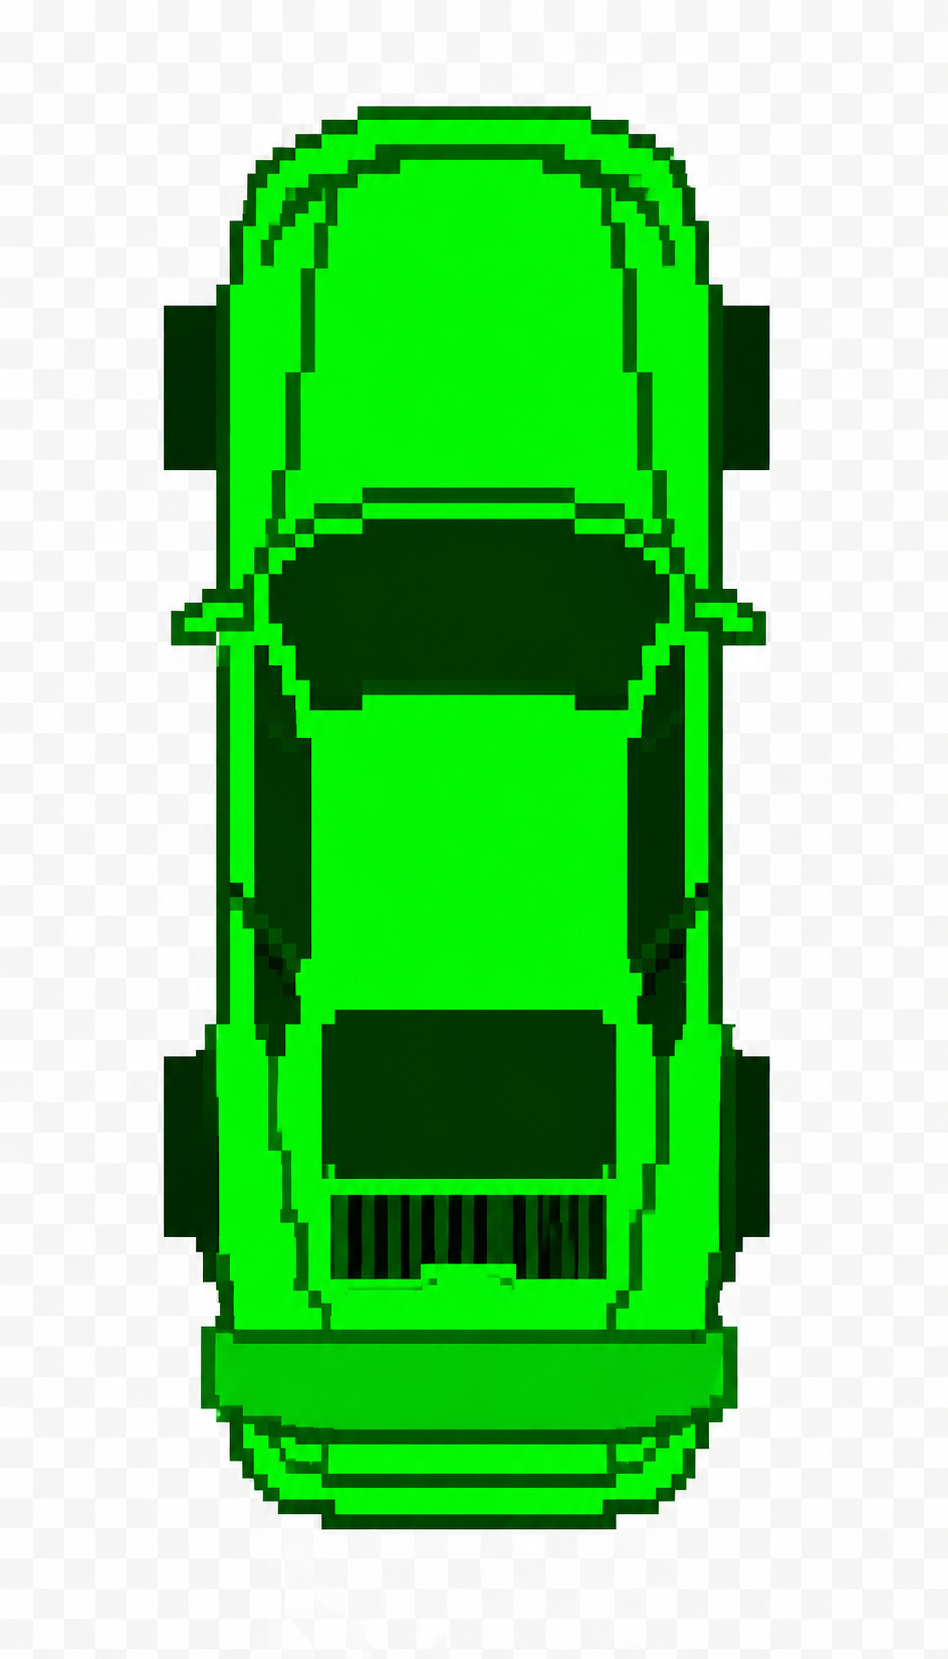
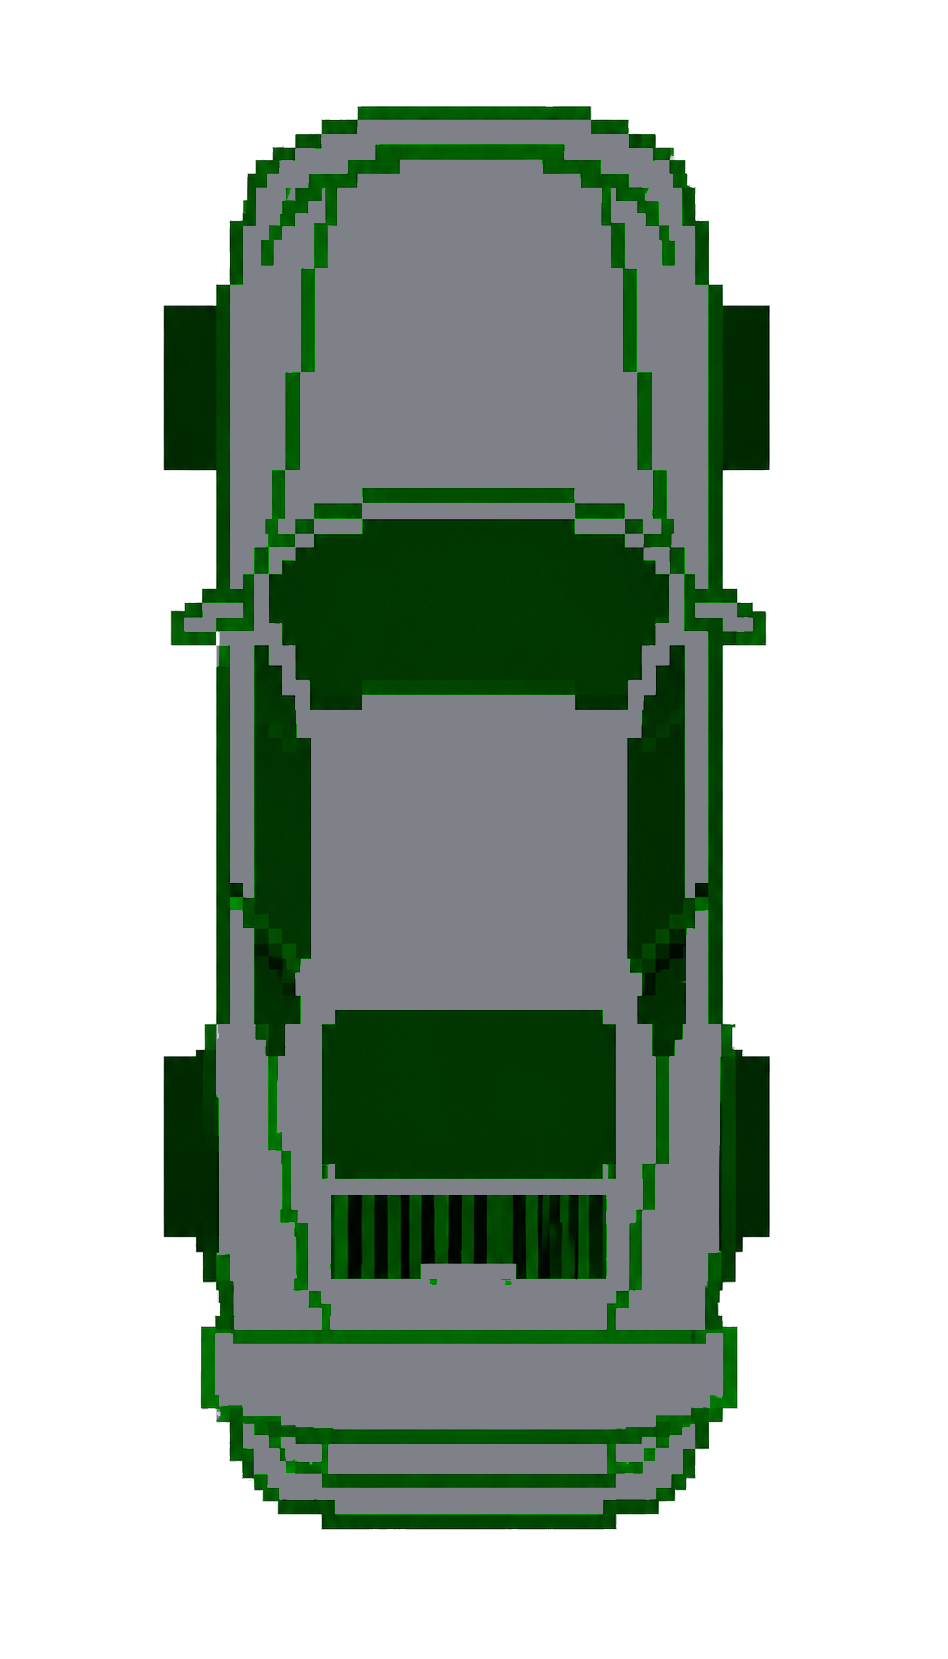
Fix lap crossing reliability and switch to white car asset

Changed region(s): [[0.1835, 0.0615, 0.7954, 0.9222]]

diff --git a/easter-egg.js b/easter-egg.js
@@ -181,7 +181,7 @@
             lapProgressForward: 0,
             lapArmed: false,
             prevGateSignedDistance: null,
-            gateHomeSide: 0,
+            lapCooldownUntil: 0,
             wrongWayMs: 0,
             wrongWayFlashUntil: 0,
             offTrackFlashUntil: 0,
@@ -400,14 +400,14 @@
                 state.lapStartTs = ts;
                 state.lapArmed = false;
                 state.lapProgressForward = 0;
+                state.lapCooldownUntil = 0;
 
-                // Capture the initial side of the start/finish line at race start.
+                // Seed signed-distance history for robust frame-to-frame gate crossing.
                 var startPoint = state.track.points[0];
                 var startTangent = state.track.tangents[0];
                 var startNormalX = -startTangent.y;
                 var startNormalY = startTangent.x;
                 var signed = (car.x - startPoint.x) * startNormalX + (car.y - startPoint.y) * startNormalY;
-                state.gateHomeSide = signed >= 0 ? 1 : -1;
                 state.prevGateSignedDistance = signed;
             }
 
@@ -450,18 +450,16 @@
                 (state.car.x - startPoint.x) * startNormalX +
                 (state.car.y - startPoint.y) * startNormalY;
 
-            if (distToStart > track.trackWidth * 0.8) {
+            if (distToStart > track.trackWidth * 0.88) {
                 state.lapArmed = true;
             }
 
-            var crossedGateFromExpectedSide = false;
+            var crossedGateLine = false;
             if (state.prevGateSignedDistance !== null) {
-                var prevSide = state.prevGateSignedDistance >= 0 ? 1 : -1;
-                var currentSide = currentGateSignedDistance >= 0 ? 1 : -1;
-                crossedGateFromExpectedSide =
-                    prevSide !== currentSide &&
-                    currentSide === state.gateHomeSide &&
-                    Math.abs(currentGateSignedDistance) > 1.5;
+                crossedGateLine =
+                    ((state.prevGateSignedDistance < 0 && currentGateSignedDistance >= 0) ||
+                    (state.prevGateSignedDistance > 0 && currentGateSignedDistance <= 0)) &&
+                    Math.abs(state.prevGateSignedDistance - currentGateSignedDistance) > 2;
             }
             state.prevGateSignedDistance = currentGateSignedDistance;
 
@@ -473,10 +471,11 @@
             if (
                 state.lapArmed &&
                 isNearGate &&
-                crossedGateFromExpectedSide &&
+                crossedGateLine &&
                 directionDot > 0.2 &&
                 enoughProgress &&
-                enoughTime
+                enoughTime &&
+                ts >= state.lapCooldownUntil
             ) {
                 state.currentLap += 1;
                 var split = ts - state.lapStartTs;
@@ -484,6 +483,7 @@
                 state.lapStartTs = ts;
                 state.lapArmed = false;
                 state.lapProgressForward = 0;
+                state.lapCooldownUntil = ts + 650;
 
                 if (state.currentLap >= TOTAL_LAPS) {
                     finishRace(ts);
@@ -1422,7 +1422,7 @@
             state.raceStarted = false;
             state.lapArmed = false;
             state.prevGateSignedDistance = null;
-            state.gateHomeSide = 0;
+            state.lapCooldownUntil = 0;
             state.particles = [];
         }
 
